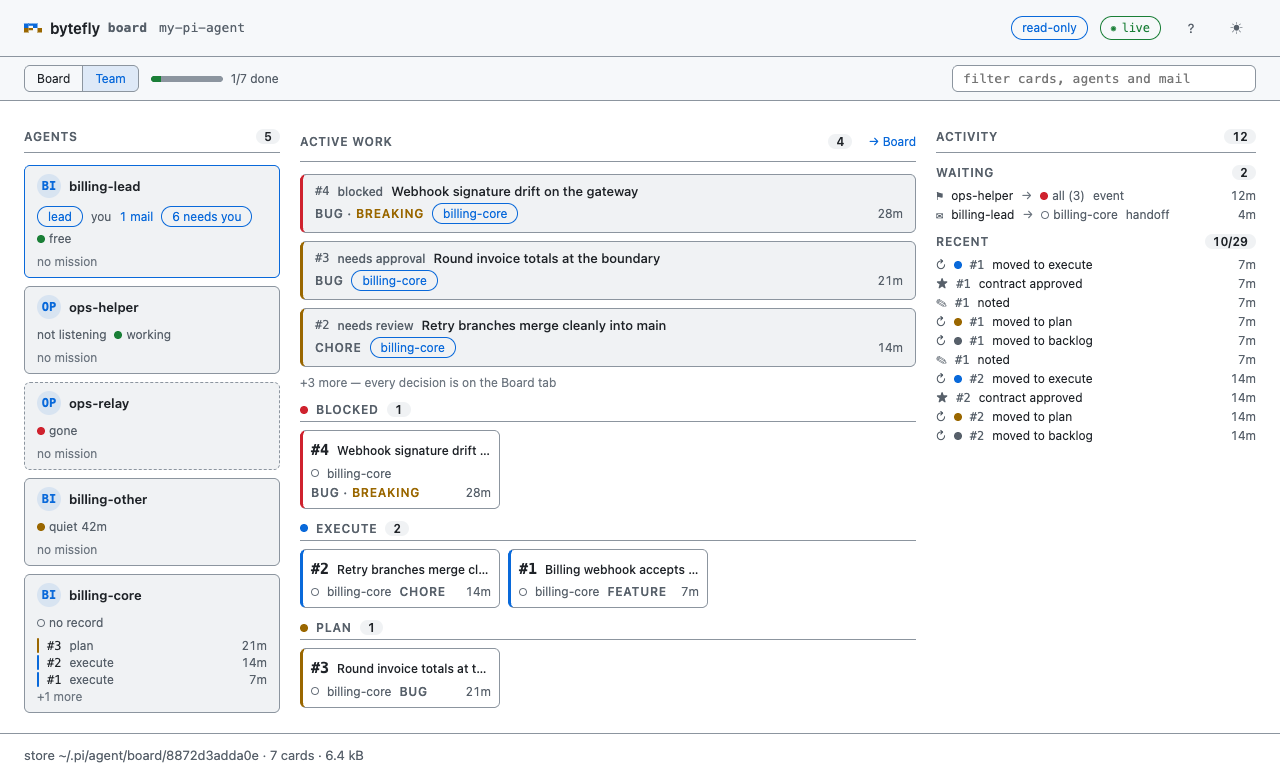
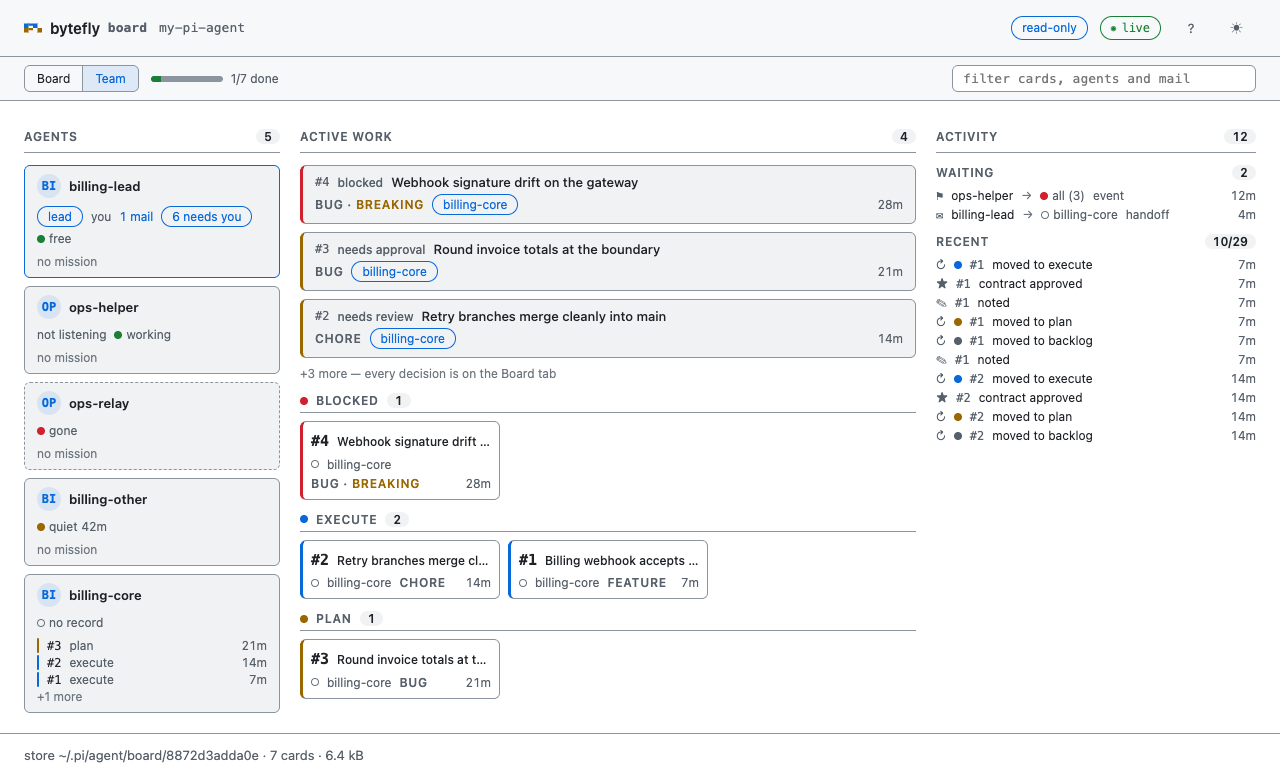
feat(board): make the ACTIVE WORK caption a count, not a door
The Team tab's middle caption carried a `-> Board` button: a control inside a
heading, and a second way to a tab that is one press away in the strip above it.
The caption is now the count alone. The swimlanes keep their own `+N more on the
Board`, which is a fold on a list rather than a door in a label.

diff --git a/extensions/board/view/styles.ts b/extensions/board/view/styles.ts
@@ -210,10 +210,6 @@ ${REASON_TONE_CSS}
    hairline under it does not disappear into the shell's own border. */
 .board-team__caption{position:sticky;top:0;z-index:2;display:flex;align-items:center;gap:var(--space-2);margin:0;padding:var(--space-2) 0;background:var(--canvas);border-bottom:1px solid var(--border);font:var(--fw-semibold) var(--fs-xs) var(--font-ui);letter-spacing:.06em;text-transform:uppercase;color:var(--muted)}
 .board-team__count{margin-left:auto;padding:0 var(--space-2);border-radius:var(--radius-pill);background:var(--raised);color:var(--text);font-size:var(--fs-xs);font-variant-numeric:tabular-nums;letter-spacing:0}
-/* The door to the wall: the middle column's caption is where a reader asks for every card,
-   and the queue's overflow is the reason to. */
-.board-team__door{margin-left:var(--space-2);appearance:none;border:0;background:none;padding:0;min-height:24px;color:var(--accent);font:var(--fs-xs) var(--font-ui);letter-spacing:0;text-transform:none;cursor:pointer}
-.board-team__door:hover{text-decoration:underline}
 .board-team__empty{margin:0;font:var(--fs-sm)/var(--lh-relaxed) var(--font-ui);color:var(--muted)}
 .board-team__skeleton{height:4.5rem;border:1px dashed var(--border);border-radius:var(--radius-md);background:var(--surface)}
 

diff --git a/extensions/board/view/behaviour.test.ts b/extensions/board/view/behaviour.test.ts
@@ -480,15 +480,9 @@ describe.skipIf(CHROME === undefined)("the served page", () => {
 		const toggle = await (await page.$("#lane-head-plan"))?.boundingBox();
 		expect(Math.round(toggle?.height ?? 0)).toBeGreaterThanOrEqual(24);
 
-		// The Team tab's door to the wall is the other control a caption makes small, and the
-		// agents' history fold is the third.
-		await page.keyboard.press("t");
-		const door = await (await page.$(".board-team__door"))?.boundingBox();
-		expect(Math.round(door?.height ?? 0)).toBeGreaterThanOrEqual(24);
-
 		// 320px: the five lane buttons wrap, so none of them — least of all the pressed one — is
-		// out of reach without a sideways scroll nobody can see.
-		await page.keyboard.press("t");
+		// out of reach without a sideways scroll nobody can see. The picker is the Board tab's, so
+		// this stays on it rather than leaving the tab switch for a tab that has no picker.
 		await page.setViewportSize({ width: 320, height: 720 });
 		await page.waitForTimeout(200);
 		const picker = await page.evaluate(() => {

diff --git a/extensions/board/view/active.ts b/extensions/board/view/active.ts
@@ -289,12 +289,9 @@ const activeTemplate = String.raw`(function () {
       total: view.total,
       decisions: shown.length,
       build: function (slot) {
-        var head = board.captionOf("ACTIVE WORK", active, undefined, "card");
-        var door = el("button", N.teamDoor, "\u2192 Board");
-        door.type = "button";
-        door.addEventListener("click", function () { board.showView("board"); });
-        head.appendChild(door);
-        slot.appendChild(head);
+        // The caption is a count and nothing else: the tab strip above the page is the way to
+        // the whole board, and a second door in a heading was a control in a label.
+        slot.appendChild(board.captionOf("ACTIVE WORK", active, undefined, "card"));
         var strip = el("div", N.decisions);
         var cap = Math.min(shown.length, STRIP);
         for (var s = 0; s < cap; s++) strip.appendChild(decisionRow(shown[s]));

diff --git a/extensions/board/view/mission.test.ts b/extensions/board/view/mission.test.ts
@@ -182,8 +182,9 @@ describe("the mission control's contracts", () => {
 		// Three rows, then a count: a queue that fills the column is the Board tab with extra steps.
 		expect(BOARD_CLIENT_JS).toContain("var STRIP = 3");
 		expect(BOARD_CLIENT_JS).toContain("+N more");
-		// And the door to the wall is a button, not a link nobody can reach from the keyboard.
-		expect(BOARD_CLIENT_JS).toContain('el("button", N.teamDoor, "\\u2192 Board")');
+		// The caption is a count alone: the tab strip is the way to the whole board, so the
+		// column carries no second door for a heading to be a control.
+		expect(BOARD_CLIENT_JS).not.toContain("board-team__door");
 	});
 
 	test("says an empty lane, an empty pane, and an empty board in words", () => {

diff --git a/extensions/board/view/pages.test.ts b/extensions/board/view/pages.test.ts
@@ -162,7 +162,6 @@ describe("the document", () => {
 		// The controls a row makes small — the door out of the middle column, and the two folds —
 		// keep a 24px target without growing the caption they sit in.
 		expect(BOARD_CSS).toContain("min-height:24px");
-		expect(BOARD_CSS).toMatch(/\.board-team__door\{[^}]*min-height:24px/);
 		expect(BOARD_CSS).toMatch(/\.board-team__agent-fold\{[^}]*min-height:24px/);
 		expect(BOARD_CSS).toMatch(/\.board-team__lane-fold\{[^}]*min-height:24px/);
 	});

diff --git a/test/suite-sizes.test.ts b/test/suite-sizes.test.ts
@@ -27,8 +27,8 @@ const SUITE_BAR = 400;
 const LONG_SUITES: Record<string, number> = {
 	"extensions/board/page.test.ts": 521,
 	"extensions/board/tools.test.ts": 1257,
-	"extensions/board/view/behaviour.test.ts": 738,
-	"extensions/board/view/pages.test.ts": 620,
+	"extensions/board/view/behaviour.test.ts": 732,
+	"extensions/board/view/pages.test.ts": 619,
 	"extensions/bytefly/block/block.test.ts": 561,
 	"extensions/bytefly/chrome.test.ts": 1185,
 	"extensions/bytefly/doctor/doctor.test.ts": 511,

diff --git a/extensions/board/view/names.ts b/extensions/board/view/names.ts
@@ -97,7 +97,6 @@ export const BOARD_CLASS = {
 	teamColumn: "board-team__column",
 	teamCaption: "board-team__caption",
 	teamCount: "board-team__count",
-	teamDoor: "board-team__door",
 	teamEmpty: "board-team__empty",
 	teamSkeleton: "board-team__skeleton",
 

diff --git a/docs/extensions/team.md b/docs/extensions/team.md
@@ -13,8 +13,8 @@ themselves and scroll as one. **AGENTS** holds a card per session, the board's l
 first whatever its state, each with a monogram, `lead` and `you` chips, a needs-you count on
 the lead's card, a state pill (`working` inside a turn, `quiet 42m` with the age a reclaim
 turns on), and a line per mission with its lane as a bar. **ACTIVE WORK** is the lead's queue
-as a strip over the `blocked`, `execute` and `plan` swimlanes, each reason one hover away,
-with `→ Board` for the whole board. **ACTIVITY** is the unread mail — each row wearing its
+as a strip over the `blocked`, `execute` and `plan` swimlanes, each reason one hover away, and its
+caption is a count rather than a control. **ACTIVITY** is the unread mail — each row wearing its
 recipient's state — above the cards' recent history. Reading consumes nothing.
 
 ## What you can do

diff --git a/CHANGELOG.md b/CHANGELOG.md
@@ -6,6 +6,11 @@ to [Semantic Versioning](https://semver.org/spec/v2.0.0.html).
 
 ## [Unreleased]
 
+- `board`: the Team tab's ACTIVE WORK caption is a count again. The `→ Board` door was a button
+  inside a heading — a control in a label, and a second way to a tab that is one press away in the
+  strip above it. The column keeps its decisions strip, its `+N more`, and its swimlanes, whose
+  own `+N more on the Board` still jumps to the wall.
+
 - `board`: the Team tab is a three-column agent mission control, read-only and drawn from one
   snapshot. **AGENTS** lists a card per session with the board's lead pinned first whatever its
   state, each carrying a monogram, `lead` and `you` chips, a needs-you count on the lead's card,
